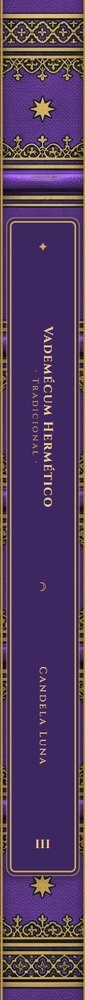
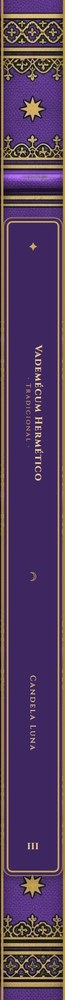
Herbario: lomos del estante con grosor según las páginas de cada tomo
Claude-Session: https://claude.ai/code/session_01DRN7dkVY4P14yQXJc37MCQ

diff --git a/herbario/index.html b/herbario/index.html
@@ -148,8 +148,8 @@ a{color:inherit}
         <div class="regla"></div>
         <p class="texto">La obra entera en un solo libro: el gabinete de las plantas, resinas, aceites y piedras; el mapa del cielo de los grandes maestros; el oráculo de Arcana Herbarum; el laboratorio espagírico y el grimorio de los talismanes y la noche. Ya incluye los cinco tomos, con sus juegos interactivos.</p>
         <div class="acciones">
-          <a class="btn abrir" href="completo/?v=20261109i">Abrir la obra completa</a>
-          <a class="btn pdf" href="pdf/herbario-completo-celu.pdf?v=20261109i" download>PDF para el celu</a>
+          <a class="btn abrir" href="completo/?v=20261109j">Abrir la obra completa</a>
+          <a class="btn pdf" href="pdf/herbario-completo-celu.pdf?v=20261109j" download>PDF para el celu</a>
         </div>
       </div>
     </div>
@@ -166,12 +166,12 @@ a{color:inherit}
       <div class="estante">
         <div class="luz" aria-hidden="true"></div>
         <div class="fila">
-          <a class="libro" href="#obra" style="--w:.147" aria-label="Obra completa: ir a la obra completa"><img src="img/lomo-completo.jpg" alt=""></a>
-          <a class="libro" href="#tomo1" style="--w:.085" aria-label="Tomo I, El Gabinete: ir a su tarjeta"><img src="img/lomo-tomo1.jpg" alt=""></a>
-          <a class="libro" href="#tomo2" style="--w:.104" aria-label="Tomo II, El Mapa del Cielo: ir a su tarjeta"><img src="img/lomo-tomo2.jpg" alt=""></a>
-          <a class="libro" href="#tomo3" style="--w:.085" aria-label="Tomo III, El Oráculo: ir a su tarjeta"><img src="img/lomo-tomo3.jpg" alt=""></a>
-          <a class="libro" href="#tomo4" style="--w:.085" aria-label="Tomo IV, El Laboratorio: ir a su tarjeta"><img src="img/lomo-tomo4.jpg" alt=""></a>
-          <a class="libro" href="#tomo5" style="--w:.085" aria-label="Tomo V, El Grimorio: ir a su tarjeta"><img src="img/lomo-tomo5.jpg" alt=""></a>
+          <a class="libro" href="#obra" style="--w:0.216" aria-label="Obra completa: ir a la obra completa"><img src="img/lomo-completo.jpg" alt=""></a>
+          <a class="libro" href="#tomo1" style="--w:0.071" aria-label="Tomo I, El Gabinete: ir a su tarjeta"><img src="img/lomo-tomo1.jpg" alt=""></a>
+          <a class="libro" href="#tomo2" style="--w:0.086" aria-label="Tomo II, El Mapa del Cielo: ir a su tarjeta"><img src="img/lomo-tomo2.jpg" alt=""></a>
+          <a class="libro" href="#tomo3" style="--w:0.065" aria-label="Tomo III, El Oráculo: ir a su tarjeta"><img src="img/lomo-tomo3.jpg" alt=""></a>
+          <a class="libro" href="#tomo4" style="--w:0.052" aria-label="Tomo IV, El Laboratorio: ir a su tarjeta"><img src="img/lomo-tomo4.jpg" alt=""></a>
+          <a class="libro" href="#tomo5" style="--w:0.104" aria-label="Tomo V, El Grimorio: ir a su tarjeta"><img src="img/lomo-tomo5.jpg" alt=""></a>
         </div>
       </div>
   </section>
@@ -186,62 +186,62 @@ a{color:inherit}
       <div class="grilla">
 
     <article class="tomo verde" id="tomo1">
-      <a class="tapa" href="tomo-1/?v=20261109i" tabindex="-1" aria-hidden="true"><img src="img/tapa-tomo1.jpg" alt="" width="640" height="908"></a>
+      <a class="tapa" href="tomo-1/?v=20261109j" tabindex="-1" aria-hidden="true"><img src="img/tapa-tomo1.jpg" alt="" width="640" height="908"></a>
       <div class="cuerpo">
         <p class="num">Tomo I</p>
         <h3>El Gabinete</h3>
         <p class="lat">Herbario y Vademécum Botánico</p>
         <p class="desc">La sabiduría botánica, espagírica y tradicional del gabinete: hierbas, flores, especias y maderas, sahumerios e inciensos, aceites esenciales, sales, piedras y metales, con los métodos para prepararlos.</p>
         <p class="cap">Capítulos I a VII</p>
-        <div class="acciones"><a class="btn abrir" href="tomo-1/?v=20261109i" aria-label="Abrir el libro: Tomo I, El Gabinete">Abrir el libro</a><a class="btn pdf" href="pdf/herbario-tomo1-celu.pdf?v=20261109i" download>PDF para el celu</a></div>
+        <div class="acciones"><a class="btn abrir" href="tomo-1/?v=20261109j" aria-label="Abrir el libro: Tomo I, El Gabinete">Abrir el libro</a><a class="btn pdf" href="pdf/herbario-tomo1-celu.pdf?v=20261109j" download>PDF para el celu</a></div>
       </div>
     </article>
 
     <article class="tomo celeste" id="tomo2">
-      <a class="tapa" href="tomo-2/?v=20261109i" tabindex="-1" aria-hidden="true"><img src="img/tapa-tomo2.jpg" alt="" width="640" height="908"></a>
+      <a class="tapa" href="tomo-2/?v=20261109j" tabindex="-1" aria-hidden="true"><img src="img/tapa-tomo2.jpg" alt="" width="640" height="908"></a>
       <div class="cuerpo">
         <p class="num">Tomo II</p>
         <h3>Caelum · El Mapa del Cielo</h3>
         <p class="lat">Vademécum Hermético Tradicional</p>
         <p class="desc">Los grandes maestros de la filosofía oculta: los 120 elementos y las estrellas fijas de Agrippa, los perfumes planetarios de Lévi, la astrología hermética, el Árbol de la Vida, el Liber 777 y las 78 llaves del Tarot.</p>
         <p class="cap">Capítulos VIII a XIII</p>
-        <div class="acciones"><a class="btn abrir" href="tomo-2/?v=20261109i" aria-label="Abrir el libro: Tomo II, Caelum">Abrir el libro</a><a class="btn pdf" href="pdf/herbario-tomo2-celu.pdf?v=20261109i" download>PDF para el celu</a></div>
+        <div class="acciones"><a class="btn abrir" href="tomo-2/?v=20261109j" aria-label="Abrir el libro: Tomo II, Caelum">Abrir el libro</a><a class="btn pdf" href="pdf/herbario-tomo2-celu.pdf?v=20261109j" download>PDF para el celu</a></div>
       </div>
     </article>
 
     <article class="tomo violeta prep" id="tomo3">
-      <a class="tapa" href="tomo-3/?v=20261109i" tabindex="-1" aria-hidden="true"><img src="img/tapa-tomo3.jpg" alt="" width="640" height="908"></a>
+      <a class="tapa" href="tomo-3/?v=20261109j" tabindex="-1" aria-hidden="true"><img src="img/tapa-tomo3.jpg" alt="" width="640" height="908"></a>
       <div class="cuerpo">
         <p class="num">Tomo III</p>
         <h3>Oraculum · El Oráculo</h3>
         <p class="lat">Vademécum Hermético Tradicional</p>
         <p class="desc">La consagración del mazo, las leyes de interpretación del Libro de Thoth, la doctrina del significador, las tiradas del gabinete, la geomancia y el oráculo del obí.</p>
         <p class="cap">Capítulos XIV a XX</p>
-        <div class="acciones"><a class="btn abrir" href="tomo-3/?v=20261109i" aria-label="Abrir el libro: Tomo III, Oraculum">Abrir el libro</a><a class="btn pdf" href="pdf/herbario-tomo3-celu.pdf?v=20261109i" download>PDF para el celu</a></div>
+        <div class="acciones"><a class="btn abrir" href="tomo-3/?v=20261109j" aria-label="Abrir el libro: Tomo III, Oraculum">Abrir el libro</a><a class="btn pdf" href="pdf/herbario-tomo3-celu.pdf?v=20261109j" download>PDF para el celu</a></div>
       </div>
     </article>
 
     <article class="tomo rojo prep" id="tomo4">
-      <a class="tapa" href="tomo-4/?v=20261109i" tabindex="-1" aria-hidden="true"><img src="img/tapa-tomo4.jpg" alt="" width="640" height="908"></a>
+      <a class="tapa" href="tomo-4/?v=20261109j" tabindex="-1" aria-hidden="true"><img src="img/tapa-tomo4.jpg" alt="" width="640" height="908"></a>
       <div class="cuerpo">
         <p class="num">Tomo IV</p>
         <h3>Theatrum Spagyricum · El Laboratorio</h3>
         <p class="lat">Vademécum Hermético Tradicional</p>
         <p class="desc">Los fuegos del laboratorio: los tres principios de Paracelso, elixires, aguas y vinagres, tinturas y sinergias planetarias, ungüentos, tintas mágicas, medicina astrológica y baños.</p>
         <p class="cap">Capítulos XXI a XXVII</p>
-        <div class="acciones"><a class="btn abrir" href="tomo-4/?v=20261109i" aria-label="Abrir el libro: Tomo IV, Theatrum Spagyricum">Abrir el libro</a><a class="btn pdf" href="pdf/herbario-tomo4-celu.pdf?v=20261109i" download>PDF para el celu</a></div>
+        <div class="acciones"><a class="btn abrir" href="tomo-4/?v=20261109j" aria-label="Abrir el libro: Tomo IV, Theatrum Spagyricum">Abrir el libro</a><a class="btn pdf" href="pdf/herbario-tomo4-celu.pdf?v=20261109j" download>PDF para el celu</a></div>
       </div>
     </article>
 
     <article class="tomo negro prep" id="tomo5">
-      <a class="tapa" href="tomo-5/?v=20261109i" tabindex="-1" aria-hidden="true"><img src="img/tapa-tomo5.jpg" alt="" width="640" height="908"></a>
+      <a class="tapa" href="tomo-5/?v=20261109j" tabindex="-1" aria-hidden="true"><img src="img/tapa-tomo5.jpg" alt="" width="640" height="908"></a>
       <div class="cuerpo">
         <p class="num">Tomo V</p>
         <h3>Ars Talismanica · El Grimorio</h3>
         <p class="lat">Vademécum Hermético Tradicional</p>
         <p class="desc">Los cuadrados mágicos y los sellos de los planetas, las 28 mansiones de la Luna, los pentáculos y los metales, la custodia del umbral, la Tabla Esmeralda y los Himnos Órficos.</p>
         <p class="cap">Capítulos XXVIII a XXXIII</p>
-        <div class="acciones"><a class="btn abrir" href="tomo-5/?v=20261109i" aria-label="Abrir el libro: Tomo V, Ars Talismanica">Abrir el libro</a><a class="btn pdf" href="pdf/herbario-tomo5-celu.pdf?v=20261109i" download>PDF para el celu</a></div>
+        <div class="acciones"><a class="btn abrir" href="tomo-5/?v=20261109j" aria-label="Abrir el libro: Tomo V, Ars Talismanica">Abrir el libro</a><a class="btn pdf" href="pdf/herbario-tomo5-celu.pdf?v=20261109j" download>PDF para el celu</a></div>
       </div>
     </article>
 
